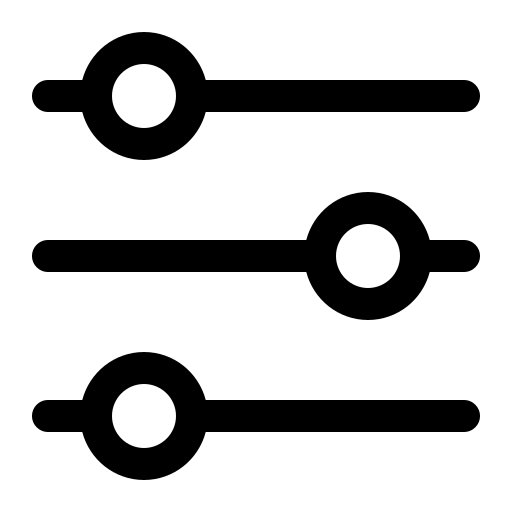
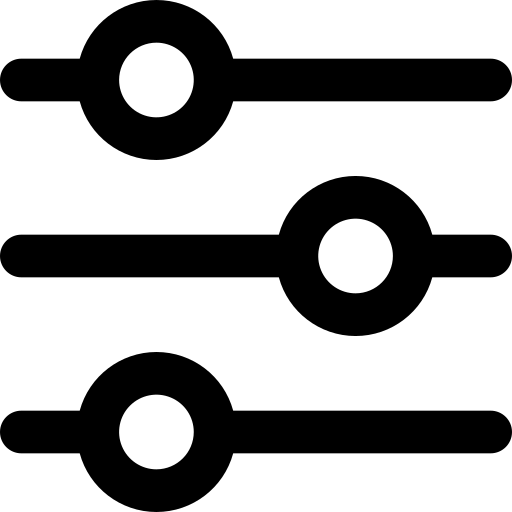
adding filter button

diff --git a/lib/features/home/presentaion/widgets/myappbar.dart b/lib/features/home/presentaion/widgets/myappbar.dart
@@ -18,27 +18,40 @@ class myappbar extends StatelessWidget {
           Builder(
             builder: (context) => IconButton(
               icon: Image.asset(
-                '././lib/images/options.png',
+                '././lib/images/menu.png',
                 color: Theme.of(context).colorScheme.secondary,
-                height: screenHeight * 0.03,
+                height: screenHeight * 0.045,
               ),
               onPressed: () {
                 Scaffold.of(context).openDrawer();
               },
             ),
           ),
+          SizedBox(),
           Image.asset(
             '././lib/images/logo.png',
             color: Theme.of(context).colorScheme.secondary,
             height: screenHeight * 0.07,
           ),
-          IconButton(
-            onPressed: () {},
-            icon: Image.asset(
-              '././lib/images/bell.png',
-              color: Theme.of(context).colorScheme.secondary,
-              height: screenHeight * 0.03,
-            ),
+          Row(
+            children: [
+              IconButton(
+                onPressed: () {},
+                icon: Image.asset(
+                  '././lib/images/options.png',
+                  color: Theme.of(context).colorScheme.secondary,
+                  height: screenHeight * 0.025,
+                ),
+              ),
+              IconButton(
+                onPressed: () {},
+                icon: Image.asset(
+                  '././lib/images/bell.png',
+                  color: Theme.of(context).colorScheme.secondary,
+                  height: screenHeight * 0.03,
+                ),
+              ),
+            ],
           )
         ],
       ),

diff --git a/lib/config/network/dioService.dart b/lib/config/network/dioService.dart
@@ -12,7 +12,7 @@ class DioService {
 
   void setup() {
     dio.options.baseUrl =
-        'https://d20l4iyrtz140g.cloudfront.net'; //'https://backend.turaestate.com';
+        'http://backend.turaestates.com'; //'https://backend.turaestate.com';
 
     // Set timeouts
     dio.options.connectTimeout = Duration(seconds: 15);
